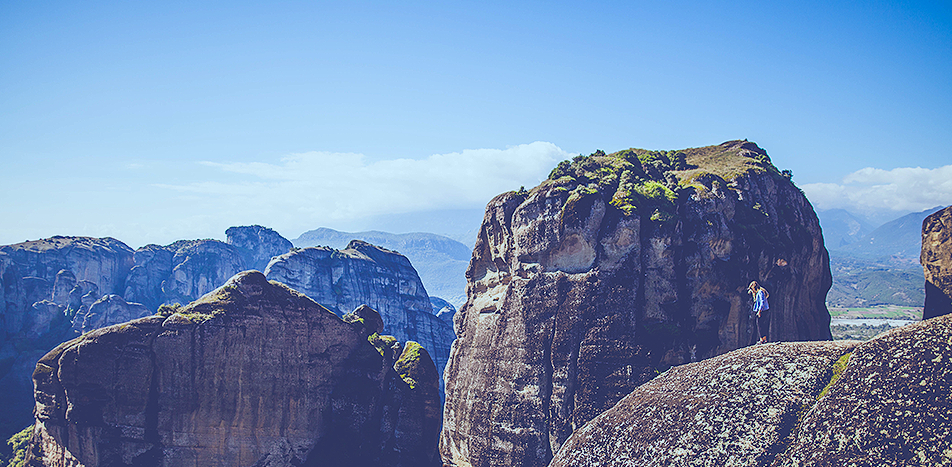
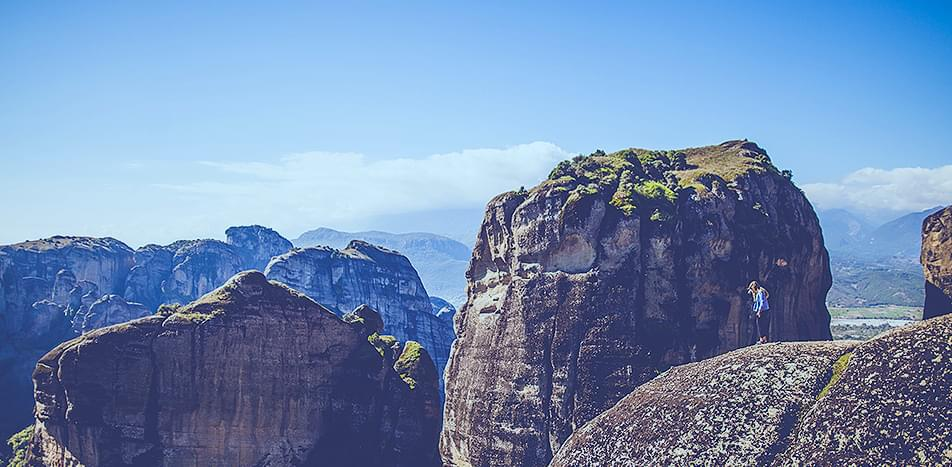
debug error netlify

diff --git a/webpack.common.js b/webpack.common.js
@@ -29,9 +29,9 @@ module.exports = {
               name: '[name].[ext]',
             },
           },
-          // {
-          //   loader: 'image-webpack-loader',
-          // },
+          {
+            loader: 'image-webpack-loader',
+          },
         ],
       },
       {
